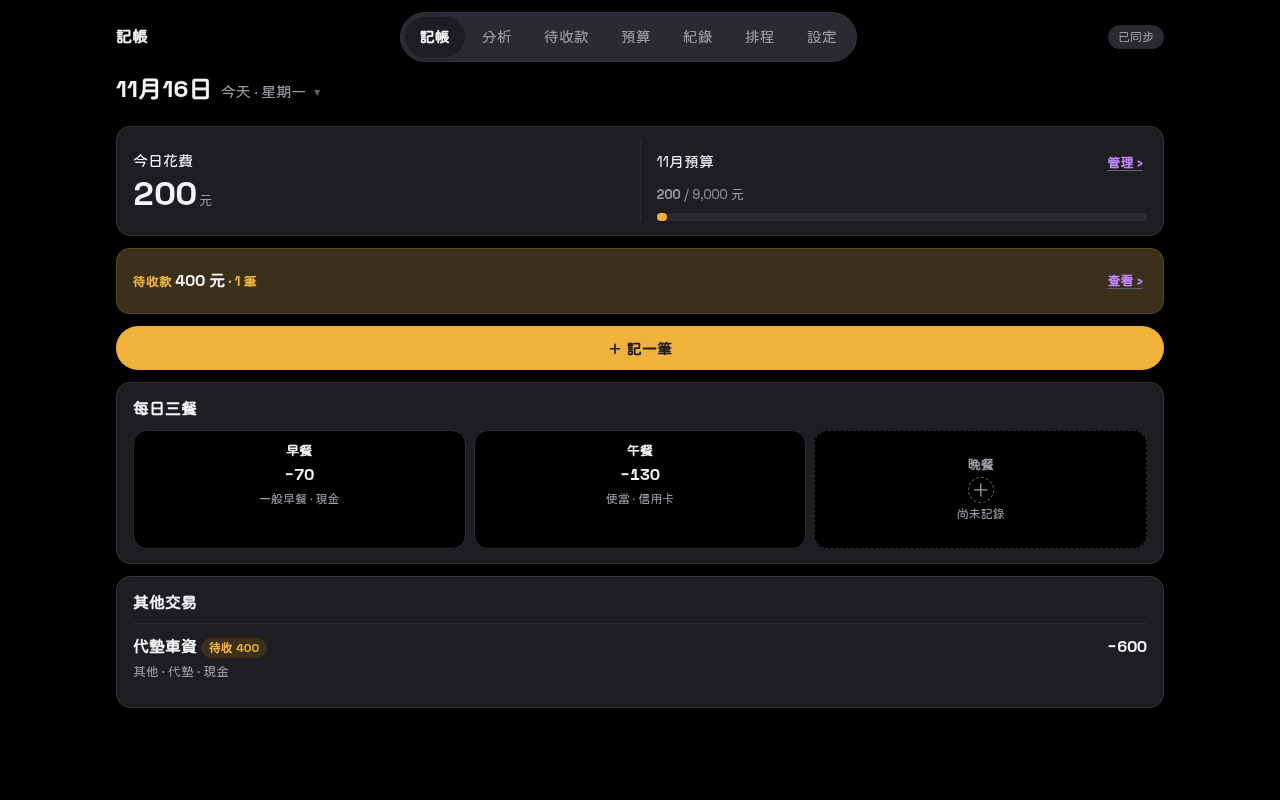
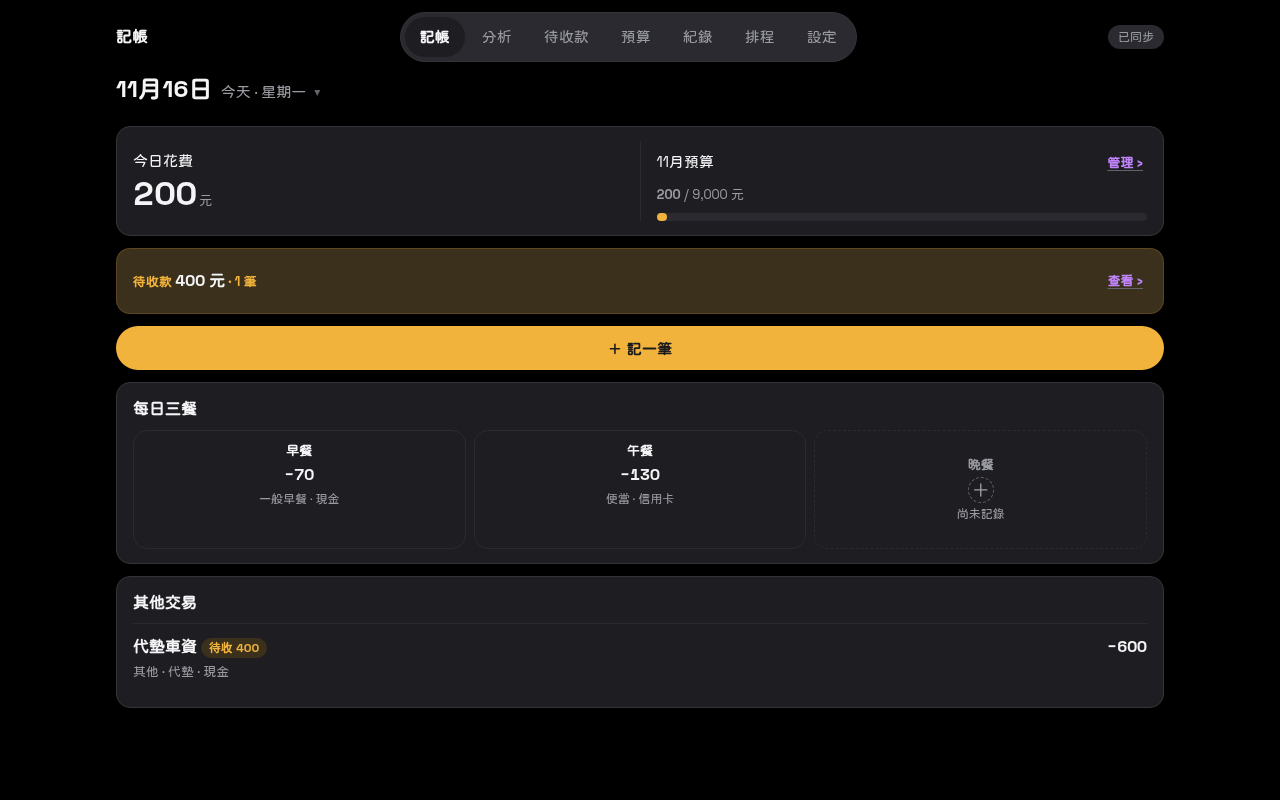
bookkeeping review: v3.4f meal tiles match card bg; trial deployed

Changed region(s): [[0.0938, 0.5312, 0.9062, 0.6875]]

diff --git a/bookkeeping-review/index.html b/bookkeeping-review/index.html
@@ -52,7 +52,8 @@
 <h2>一、這次改了什麼（對照你的回饋）</h2>
 
 <div class="note" style="margin-top:6px">
-  <strong>最新一輪（11/25 16:58 回饋）：</strong>字體與配色都換成你選的：中文 <strong>jf open 粉圓</strong>、英文和數字 <strong>Space Grotesk</strong>；畫面照你附的深色月曆圖：純黑底、炭灰圖卡、白主文字、灰次文字，主操作（＋鈕、儲存鈕、進度條）用圖裡的<strong>黃色</strong>，連結用<strong>紫色</strong>。另外修好了兩個小地方：頂部大日期上緣不再被裁切、記一筆裡的日曆小圖示在深色下改為白色看得清楚。下方截圖已是新樣子。<br>
+  <strong>最新一輪（11/25 16:58 回饋）：</strong>字體與配色都換成你選的：中文 <strong>jf open 粉圓</strong>、英文和數字 <strong>Space Grotesk</strong>；畫面照你附的深色月曆圖：純黑底、炭灰圖卡、白主文字、灰次文字，主操作（＋鈕、儲存鈕、進度條）用圖裡的<strong>黃色</strong>，連結用<strong>紫色</strong>。另外修好了兩個小地方：頂部大日期上緣不再被裁切、記一筆裡的日曆小圖示在深色下改為白色看得清楚。<br>
+  <strong>最新一輪（11/25 17:19 回饋）：</strong>三餐格子的底色改成和外層圖卡一樣，靠細邊框區隔。下方截圖已更新。<br>
   <strong>上一輪（11/25 14:27 回饋）：</strong>刪掉了「3 筆・不計入費用」註記、「已用」標籤、「（2%）」百分比、「尚餘」列、「已記 2/3」，以及日期左右箭頭（直接點日期本身就能換日期）。總覽卡右邊現在只剩 <strong>200 / 9,000 元</strong> 和進度條。<br>
   字體多元選擇在這裡：<a href="font-options/"><strong>31 種字體與混搭實際渲染比較</strong></a>（中文 13 款、英數 13 款、混搭 5 組，回覆編號即可）。<br>
   配色選擇在這裡：<a href="color-options/"><strong>20 種配色實際渲染比較</strong></a>（同一範例版面換色，不是色票，回覆 色 1–色 20 即可）。
